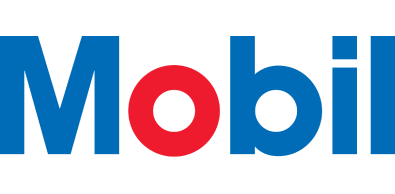
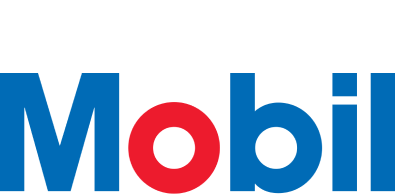
!

diff --git a/main.html b/main.html
@@ -210,15 +210,15 @@
                 <div class="main__line"><span class="main__title">Наши бренды</span></div>
                 <div class="main__brend-blocks">
                     <div class="main__brend-block">
-                        <img src="img/Gazprom.png" alt="Газпром" class="block__img">
+                        <img src="img/Gazprom.png" alt="Газпром">
                     </div>
                     <div class="main__brend-block">
-                        <img src="img/Mobil.png" alt="Мобил" class="block__img">
-                        
+                        <img src="img/Mobil.png" alt="Мобил">
+
                     </div>
                     <div class="main__brend-block">
-                        <img src="img/orlen-oil.png" alt="Орлен-Оил" class="block__img">
-                        
+                        <img src="img/orlen-oil.png" alt="Орлен-Оил">
+
                     </div>
                 </div>
             </div>
@@ -227,6 +227,22 @@
         </div>
 
     </main>
+    <footer class="footer">
+        <div class="footer__content">
+            <div class="container">
+                <div class="footer__content-info">
+                    <img src="img/logo_footer.svg" alt="" class="footer__logo">
+                    <p class="footer__text">Московская область, г. Пушкино, Ярославское шоссе, д. 1
+                    </p>
+                    <div class="footer__contacts">
+                        <img src="img/facebook.svg" alt="facebook" class="contacts__icon">
+                        <img src="img/vk.svg" alt="vk" class="contacts__icon">
+                        <img src="img/instagram.svg" alt="instagram" class="contacts__icon">
+                    </div>
+                </div>
+            </div>
+        </div>
+    </footer>
 
 
     <script src="js/script.js" defer></script>

diff --git a/css/style.css b/css/style.css
@@ -437,16 +437,41 @@
 .main__brend-blocks{
   display: grid;
   grid-template-columns: repeat(3,1fr);
-  align-self:center;
+  grid-template-rows: 1fr;
+  grid-gap: 46px;
+  margin-top: 36px;
   
 }
 
-.main__brend-block{
-  
+.footer{
+  margin-top: 100px;
   
 }
 
-.block__img{
-  width: 400px;
-  height: 200px;
+.footer__content{
+  width: 100%;
+  height: 256px;
+  background: #000000;
+  padding: 98px 0;
+  
 }
+
+.contacts__icon{
+  margin: 0 25px 0 0;
+}
+
+.footer__content-info{
+  display: flex;
+  justify-content: space-between;
+  align-items: center;
+}
+
+.footer__text{
+  font-style: normal;
+  font-weight: 700;
+  font-size: 20px;
+  line-height: 23px;
+  color: #FFFFFF;
+
+}
+
